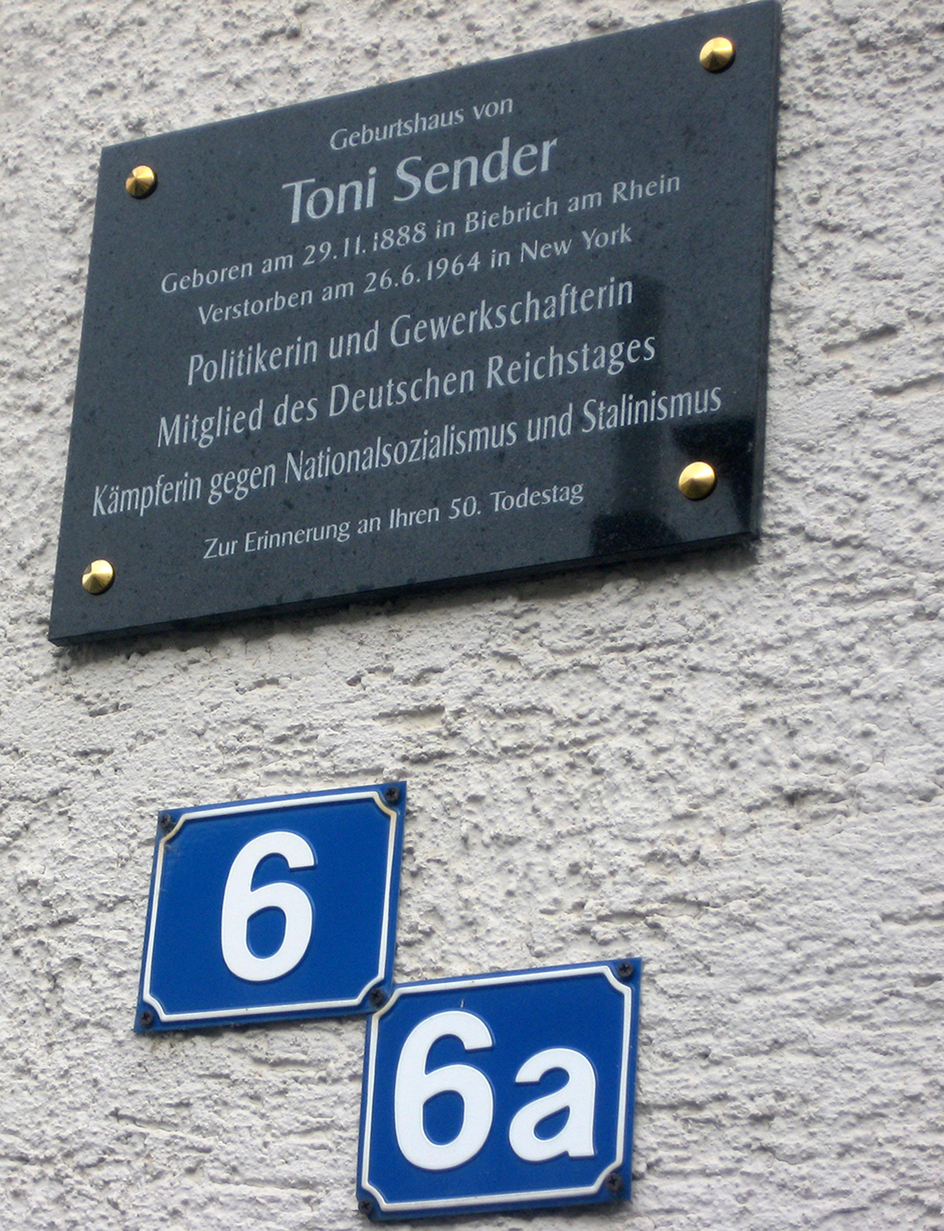
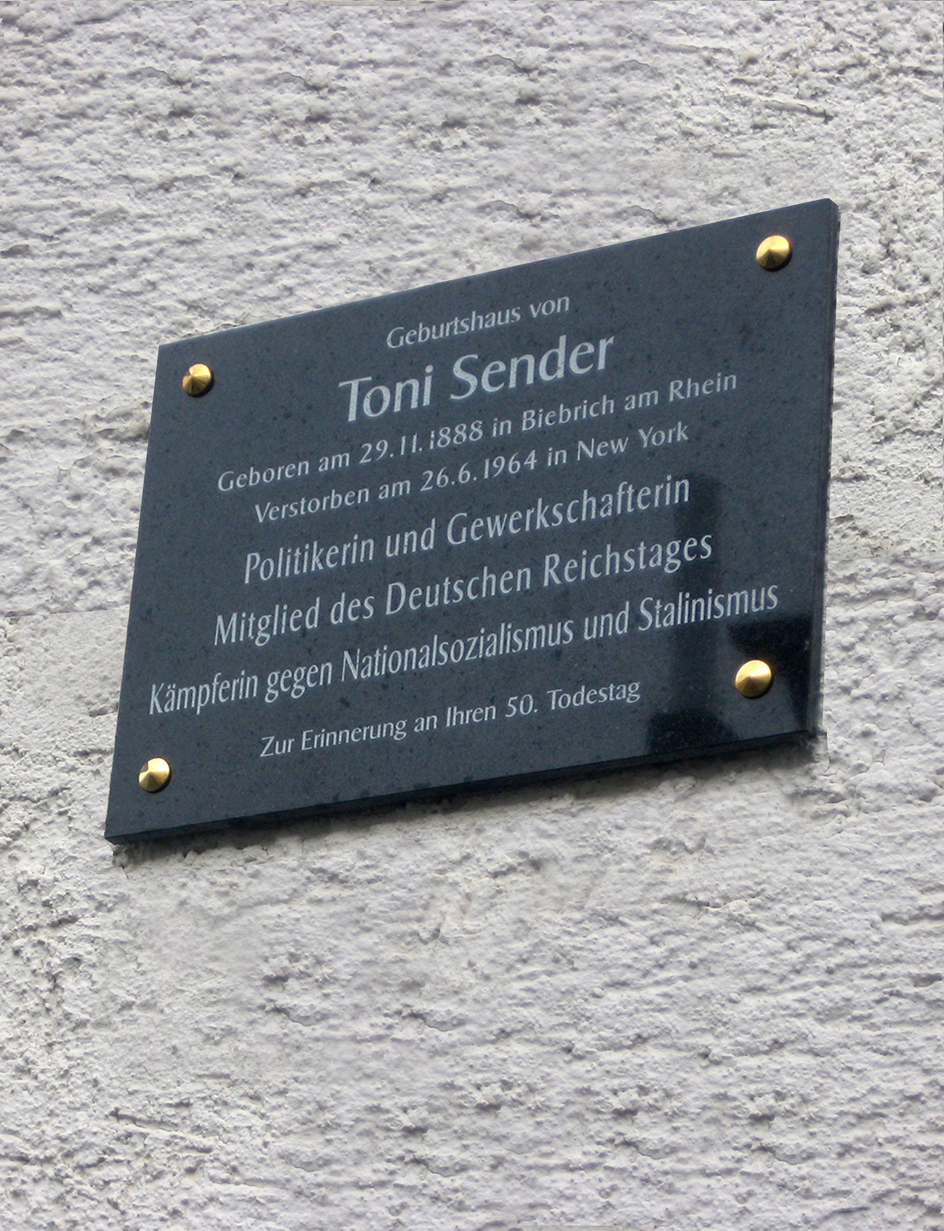
Änderung

diff --git a/docs/personen/toni-sender/lang.md b/docs/personen/toni-sender/lang.md
@@ -33,7 +33,7 @@ bilder:
     bildquelle: Stadtarchiv Wiesbaden, NL 75, Nr. 239
  - Abb 8.jpg:
     format: links
-    unterzeile: Zu Senders 50. Todestag an ihrem Biebricher Geburtshaus in der Stettiner Straße angebrachte Gedenktafel
+    unterzeile: Zu Senders 50. Todestag an ihrem Biebricher Geburtshaus in der Stettiner Straße 6 angebrachte Gedenktafel
     bildquelle: Dr. Axel Ulrich, Wiesbaden
 geburtsdaten: 29.11.1888 – 26.06.1964
 name: Toni Sender
